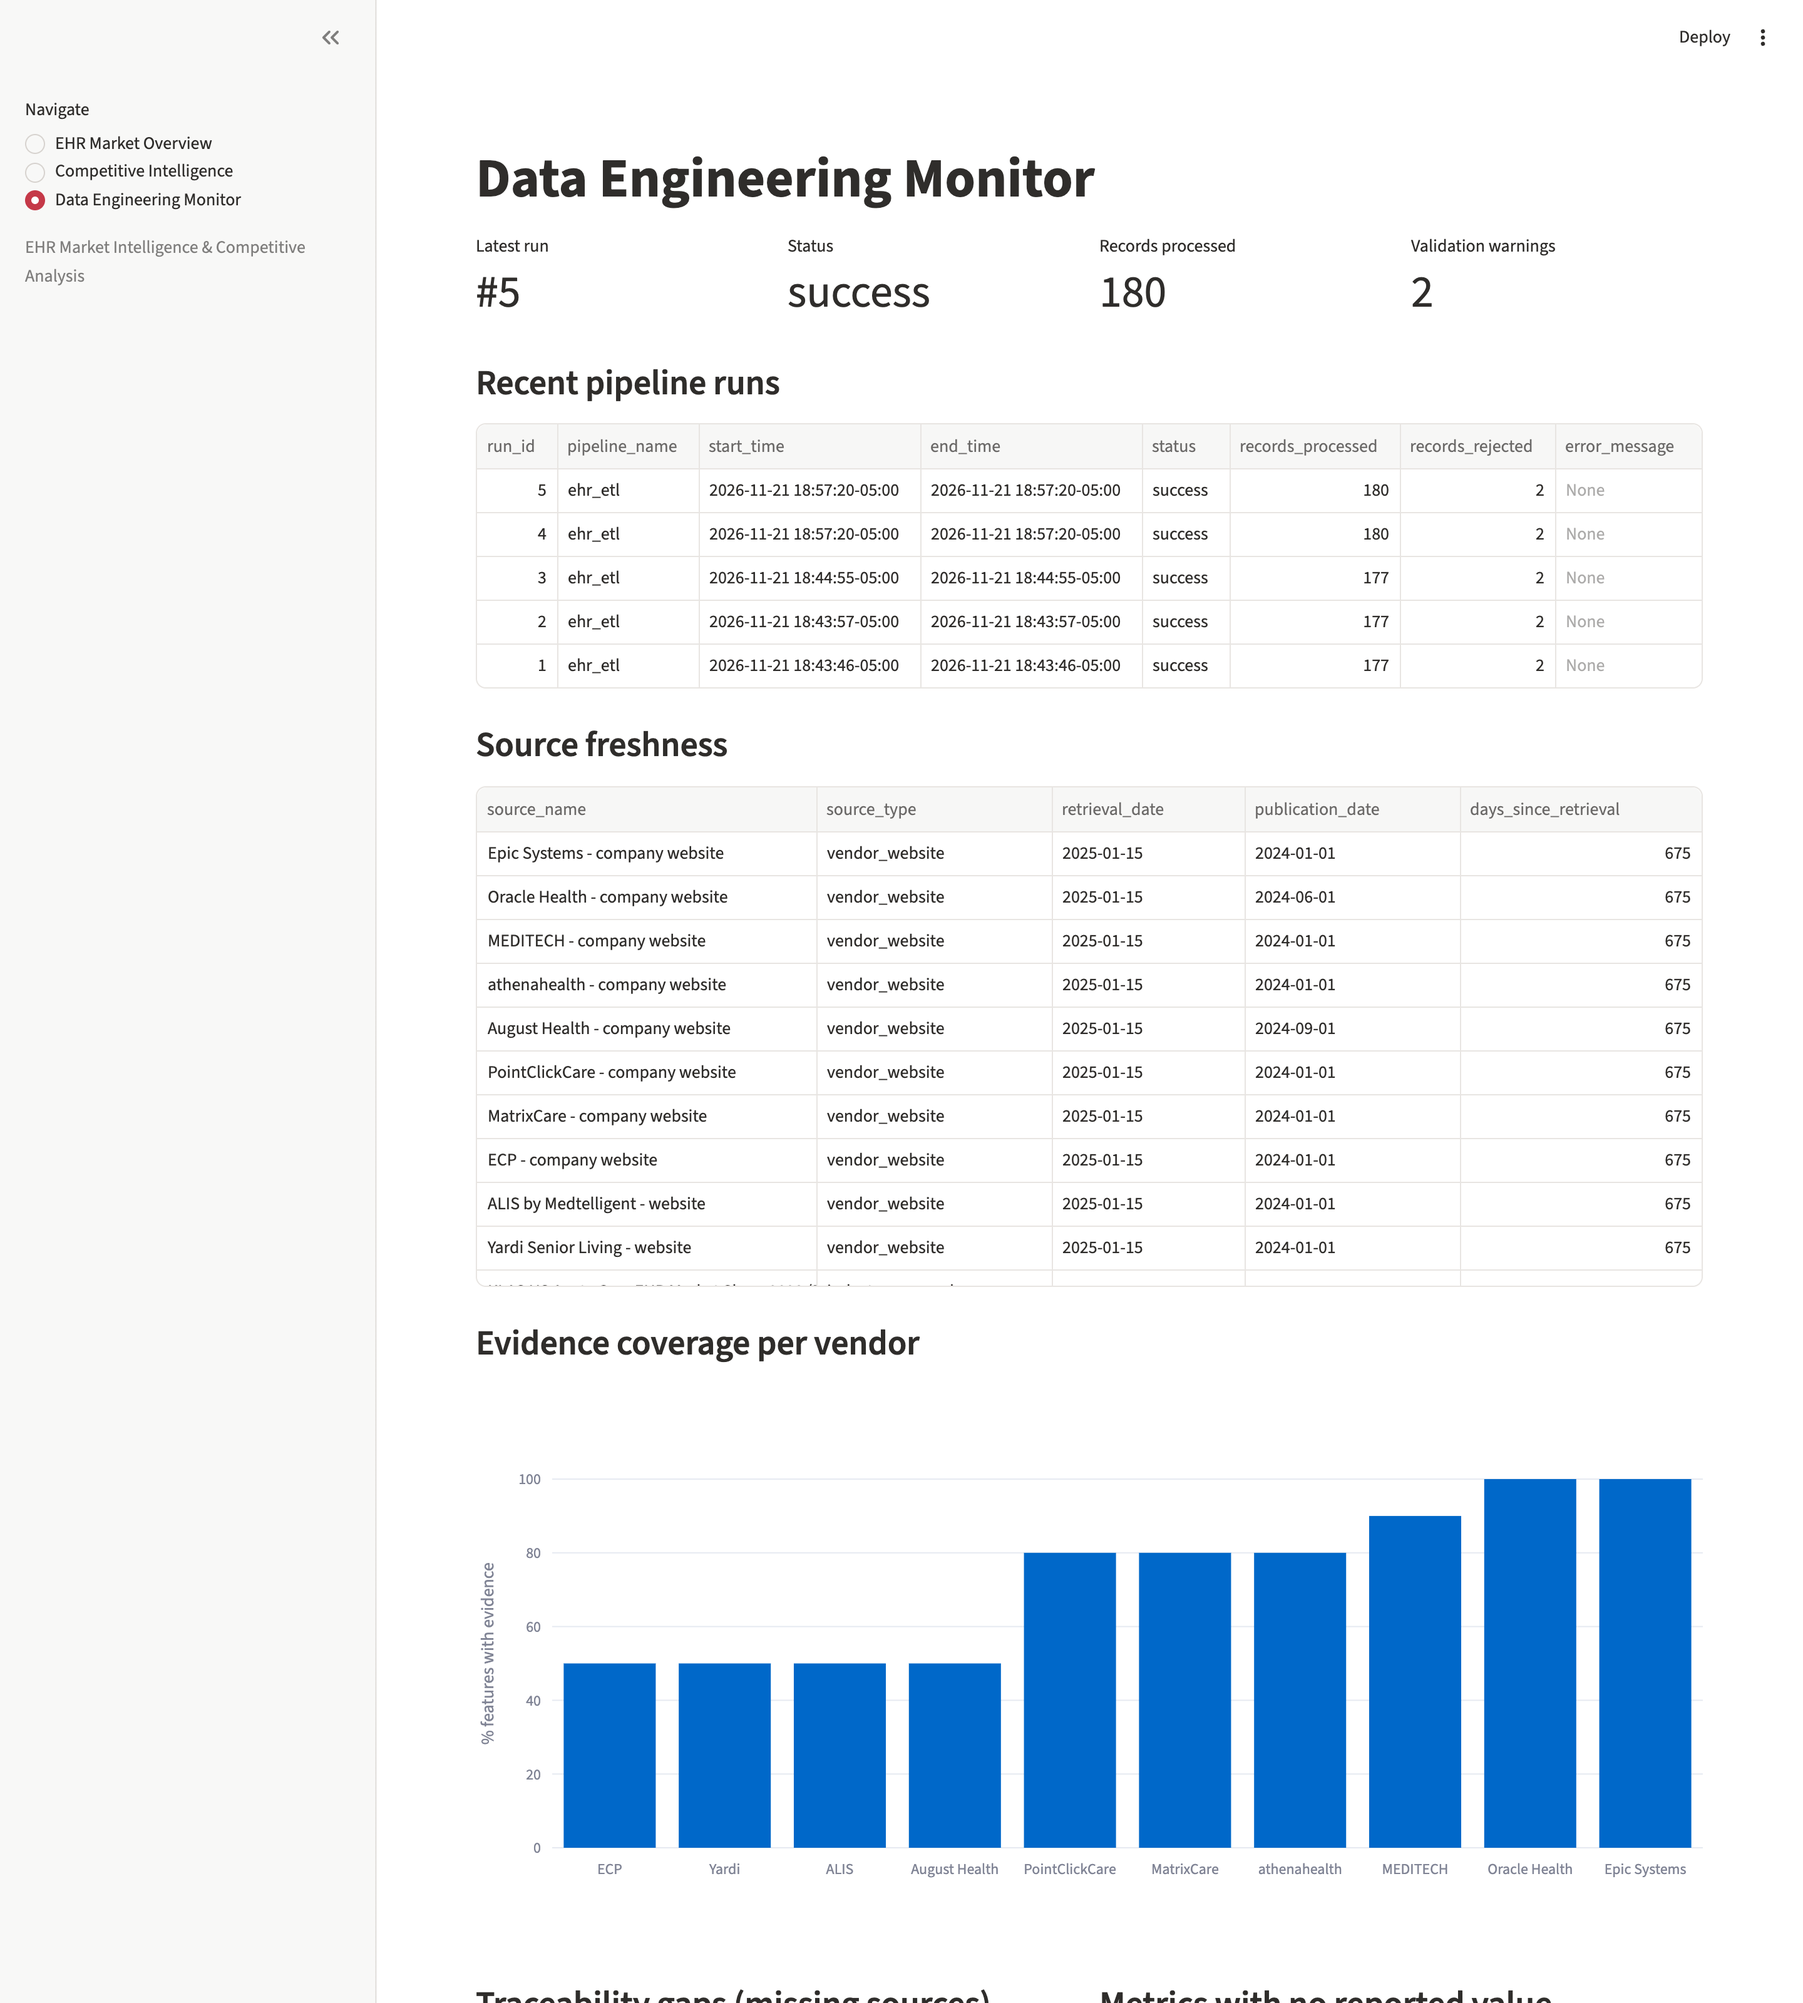
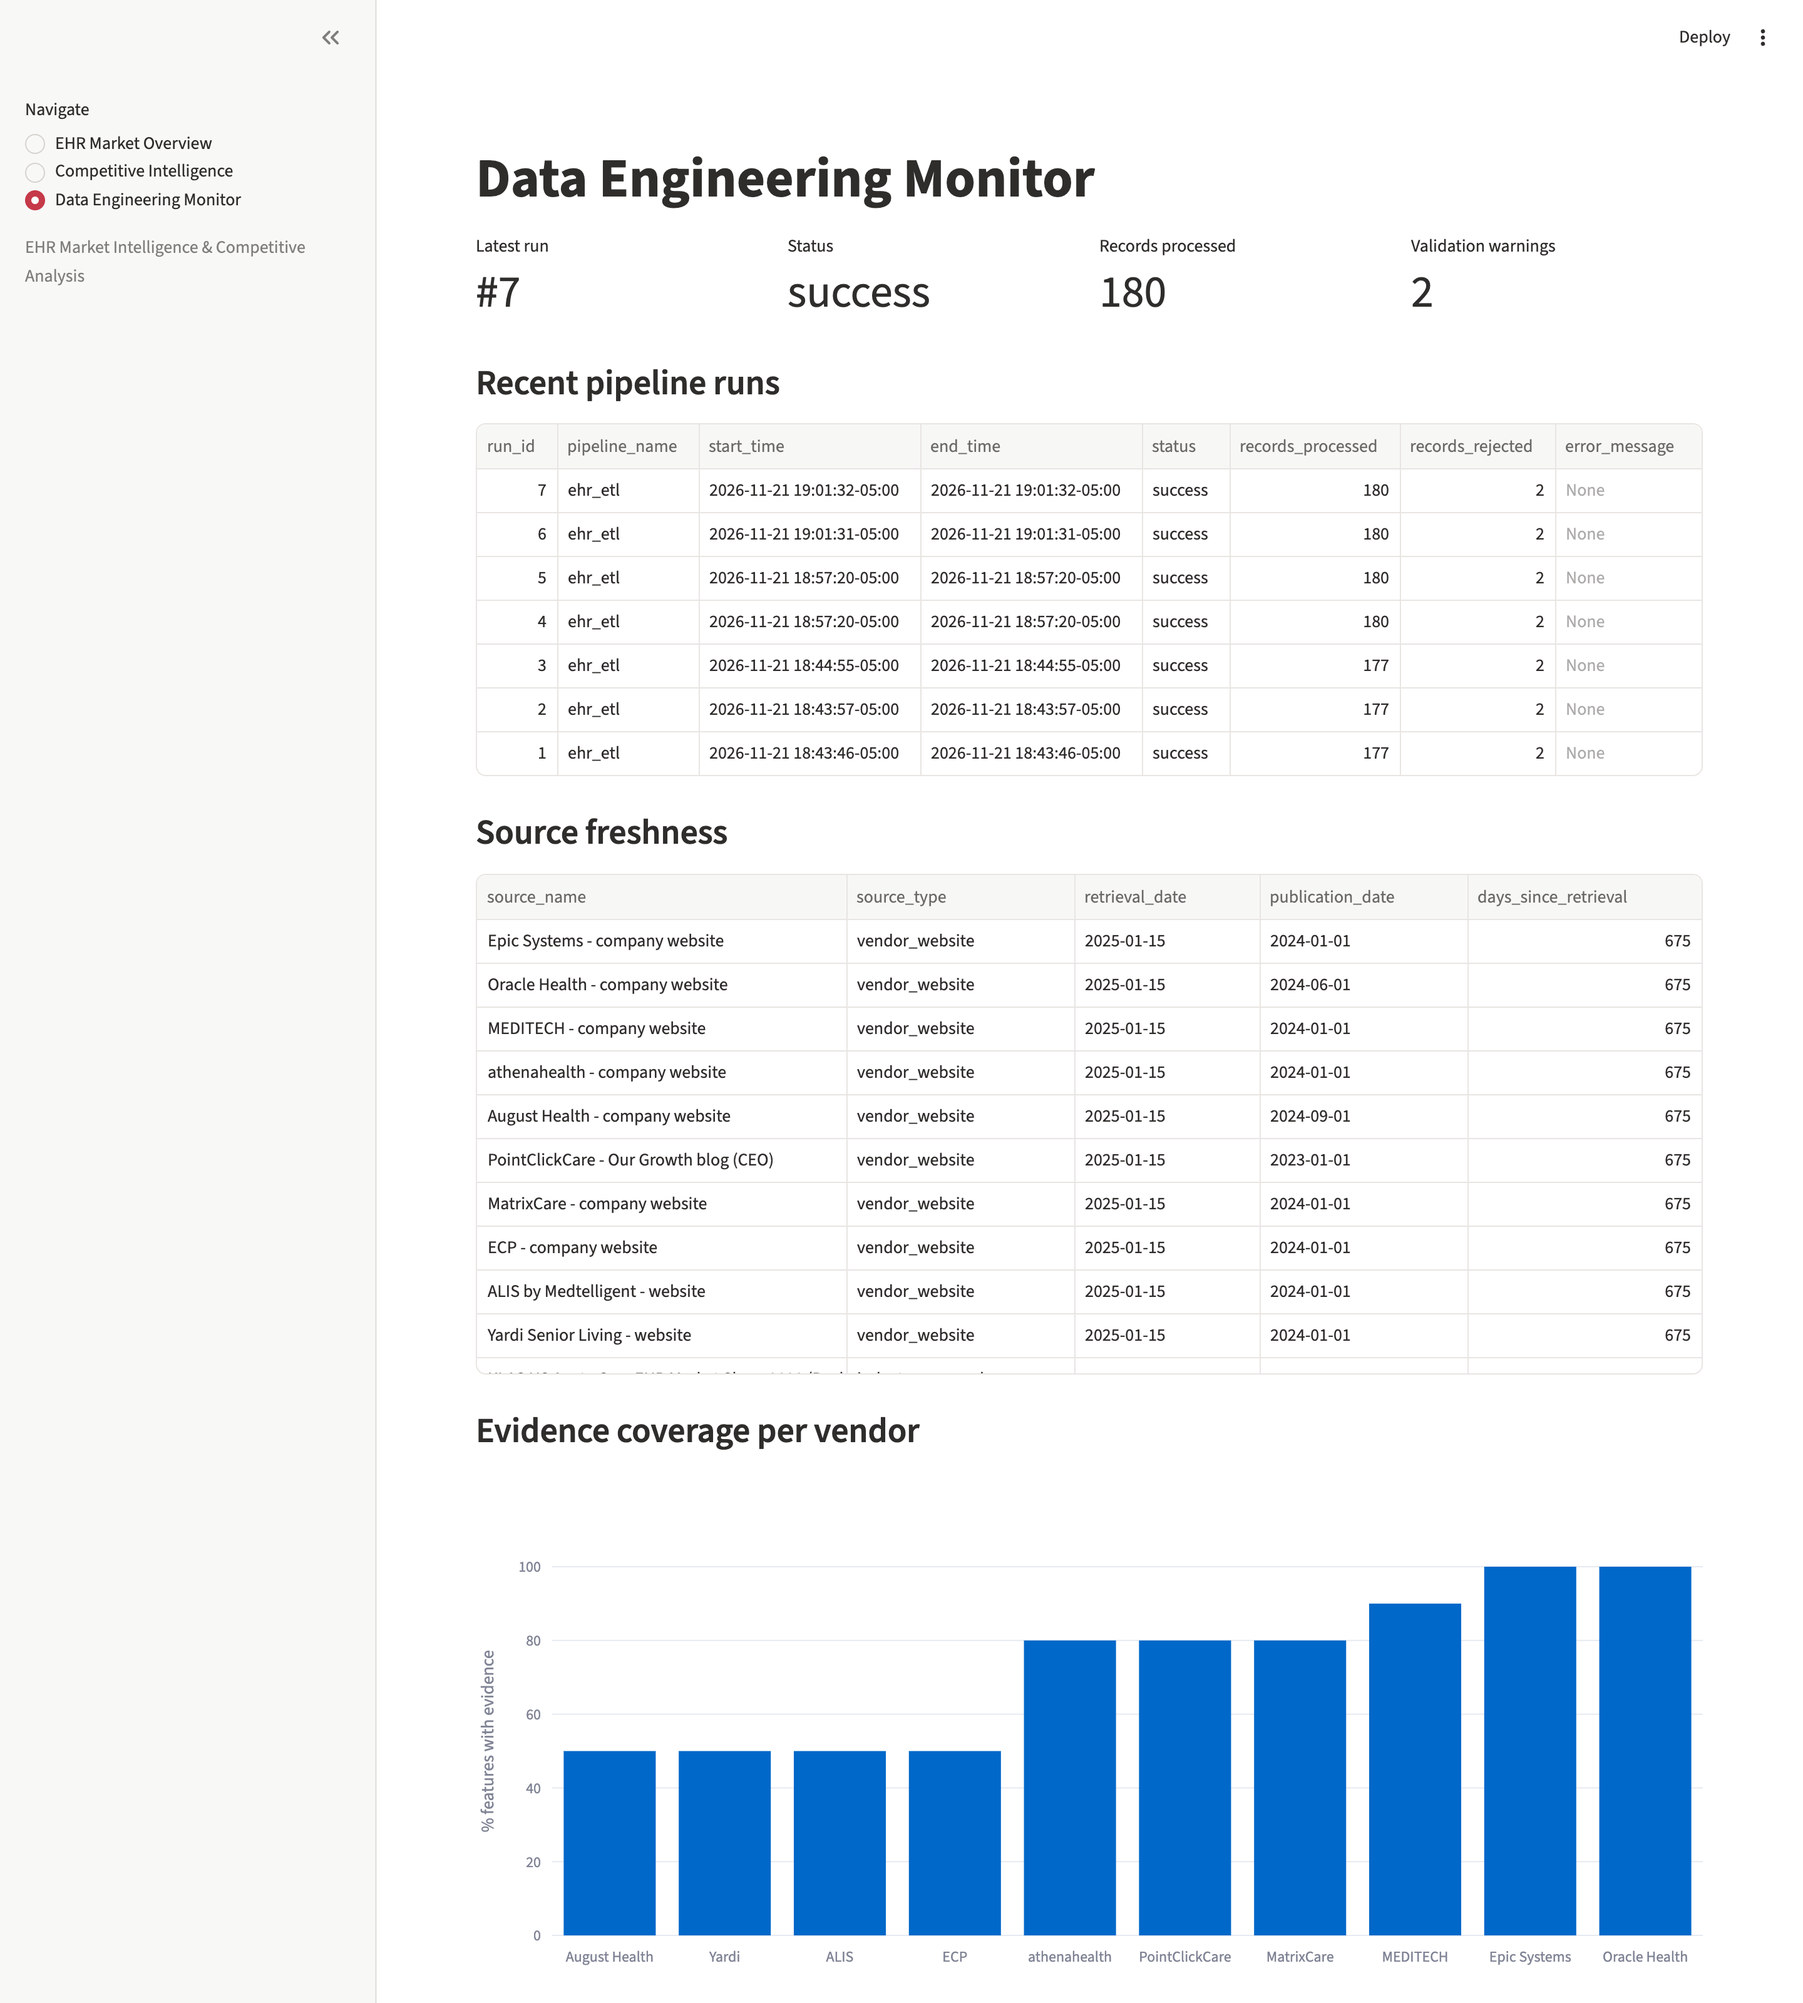
Add Key Findings section; verify senior-living footprint counts
- Verify PointClickCare 27,000+ LTPAC facilities against CEO growth blog
- Set MatrixCare facility count to NULL (no specific figure verified; vendor publishes only 'thousands')
- Confirm athenahealth 160,000 clinicians
- Add Key Findings section to README
- Refresh dashboard screenshots with verified data

diff --git a/data/seed/_build_seed.py b/data/seed/_build_seed.py
@@ -24,7 +24,7 @@ SOURCES = [
     (3,  "MEDITECH - company website",            "https://ehr.meditech.com/about-meditech",          "2024-01-01", "2025-01-15", "vendor_website"),
     (4,  "athenahealth - company website",        "https://www.athenahealth.com/about",               "2024-01-01", "2025-01-15", "vendor_website"),
     (5,  "August Health - company website",       "https://www.augusthealth.com/",                    "2024-09-01", "2025-01-15", "vendor_website"),
-    (6,  "PointClickCare - company website",      "https://pointclickcare.com/about/",                "2024-01-01", "2025-01-15", "vendor_website"),
+    (6,  "PointClickCare - Our Growth blog (CEO)",  "https://pointclickcare.com/blog/leader-perspectives/our-growth-and-unified-brand-vision/", "2023-01-01", "2025-01-15", "vendor_website"),
     (7,  "MatrixCare - company website",          "https://www.matrixcare.com/about-us/",             "2024-01-01", "2025-01-15", "vendor_website"),
     (8,  "ECP - company website",                 "https://www.ecp123.com/about",                     "2024-01-01", "2025-01-15", "vendor_website"),
     (9,  "ALIS by Medtelligent - website",        "https://alisonline.com/about/",                    "2024-01-01", "2025-01-15", "vendor_website"),
@@ -151,8 +151,10 @@ MARKET_METRICS = [
     # Ambulatory presence (reported, directional)
     (4, 4, 2, "ambulatory_customer_providers", 160000, "providers", 2023, 4),
     # Senior living / LTPAC reported footprint (self-reported vendor counts)
-    (5, 6, 6, "reported_customer_facilities", 27000, "facilities", 2024, 6),
-    (6, 7, 6, "reported_customer_facilities", 15000, "facilities", 2024, 7),
+    (5, 6, 6, "reported_customer_facilities", 27000, "facilities", 2023, 6),
+    # MatrixCare publishes only "thousands of ... organizations" — no specific
+    # count verified, so value is left NULL rather than invented.
+    (6, 7, 6, "reported_customer_facilities", None, "facilities", 2024, 7),
     # August Health reported community footprint (self-reported)
     (7, 5, 3, "reported_customer_communities", None, "communities", 2024, 5),
 ]

diff --git a/README.md b/README.md
@@ -8,6 +8,36 @@ vendors across healthcare markets — with a focused competitive analysis of
 The data engineering (ETL pipeline, PostgreSQL schema, validation, data-quality
 monitoring) is the foundation; the EHR competitive analysis is the application.
 
+## Key findings
+
+1. **The hospital EHR market is highly concentrated.** Epic (39.1%), Oracle Health
+   (23.4%), and MEDITECH (16.0%) together hold ~78.5% of U.S. acute-care hospitals
+   (KLAS, 2023). Epic alone covers **51.5% of acute-care hospital beds** — more
+   than its next two competitors combined.
+
+2. **August Health's closest competitors are senior-living vendors, not Epic.**
+   The evidence-based overlap model ranks **ECP, ALIS, and Yardi as "High overlap"**
+   with August Health, while **Epic and Oracle Health score "Low overlap" (32.5/100)**.
+   This is reached from the data — not assumed — and confirms the two markets are distinct.
+
+3. **Epic vs August Health is a cross-market comparison, not direct competition.**
+   Both confirm core clinical capabilities (charting, medication management,
+   scheduling, reporting), but they serve **non-overlapping customer segments**
+   (acute/ambulatory vs. assisted living/memory care), which is why the segment
+   similarity is 0 and the overall score is low.
+
+4. **Hospital share and senior-living footprint are not comparable** — and the
+   platform keeps them apart by design. PointClickCare reports **27,000+ LTPAC
+   facilities** (self-reported); that is a *count*, not a percentage market share,
+   and cannot be placed on the same axis as Epic's 39.1% hospital share.
+
+5. **Data integrity is visible, not hidden.** Where a figure could not be verified
+   (e.g. a specific MatrixCare facility count), the value is stored as **unknown /
+   NULL rather than invented**, and ~27% of vendor–feature statuses are `unknown`
+   (no public evidence found) rather than falsely marked absent.
+
+---
+
 ## Dashboard preview
 
 **Competitive Intelligence** — side-by-side feature comparison, segment overlap, and the transparent similarity score:
